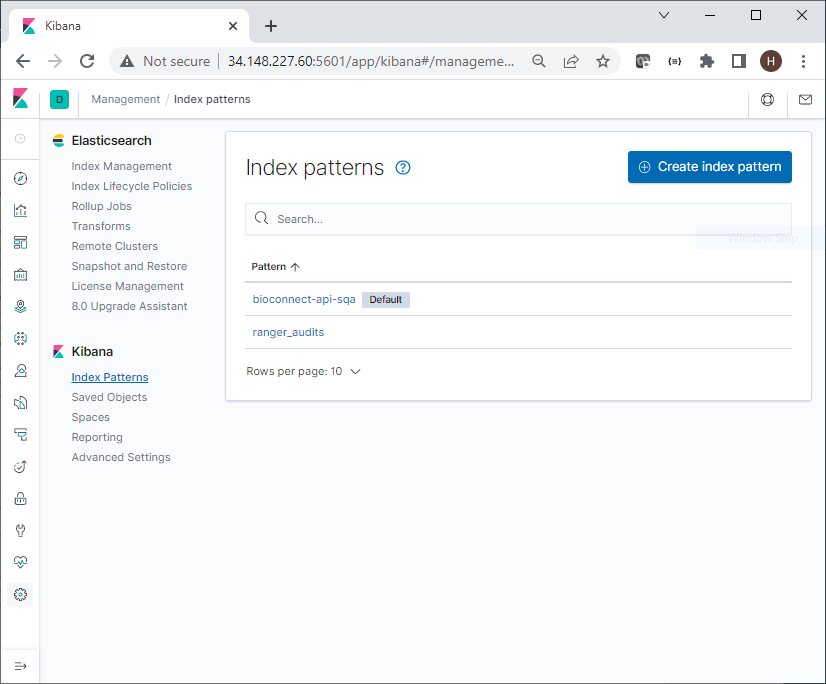
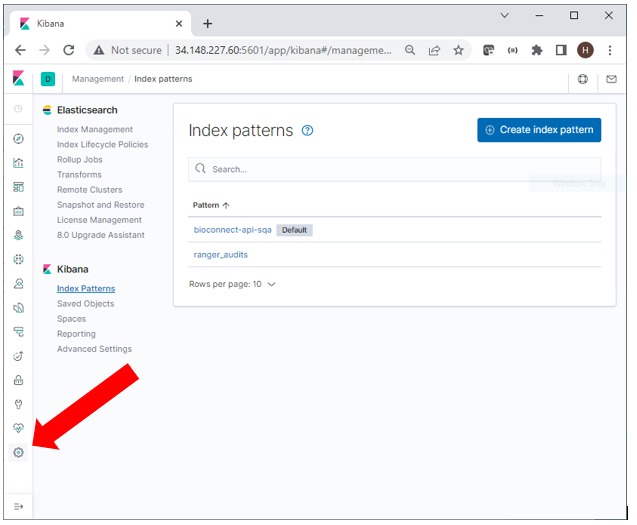
update

diff --git a/README.md b/README.md
@@ -2,23 +2,28 @@
 BioConnect library to use Apache Ranger Authorization and Logging
 
 ## View Logging
-open url: [http://34.148.227.60:5601](http://34.148.227.60:5601)
+Open url: [http://34.148.227.60:5601](http://34.148.227.60:5601)
 
 click on "Discover" icon on top left
 <p align="center">
-  <img src="./img/kibana_view_log.png" alt="View Logging"/>
+  <img src="https://raw.githubusercontent.com/TheJacksonLaboratory/bioconnect-lib-doc/main/img/kibana_view_log.png" alt="View Logging" width="315" height="271"/>
 </p>
 
 
 Make sure the correct index to view,  click on "change" to change index
 <p align="center">
-  <img src="./img/kibana_view_select_index.png" alt="Select Index"/>
+  <img src="https://raw.githubusercontent.com/TheJacksonLaboratory/bioconnect-lib-doc/main/img/kibana_view_log.png" alt="Select Index" width="315" height="271"/>
 </p>
 
 
 Make sure the correct index to view,  click on "change" to change index
 <p align="center">
-  <img src="./img/kibana_view_select_index.png" alt="Select Index"/>
+  <img src="https://raw.githubusercontent.com/TheJacksonLaboratory/bioconnect-lib-doc/main/img/kibana_view_log.png" alt="Select Index" width="315" height="271"/>
+</p>
+
+If index is not list, a new index pattern need to be created by clicking on "Management" icon to left bottom
+<p align="center">
+  <img src="https://raw.githubusercontent.com/TheJacksonLaboratory/bioconnect-lib-doc/main/img/kibana_create_index_pattern.png" alt="create Index Pattern" width="315" height="271"/>
 </p>
 
 ## Installation
